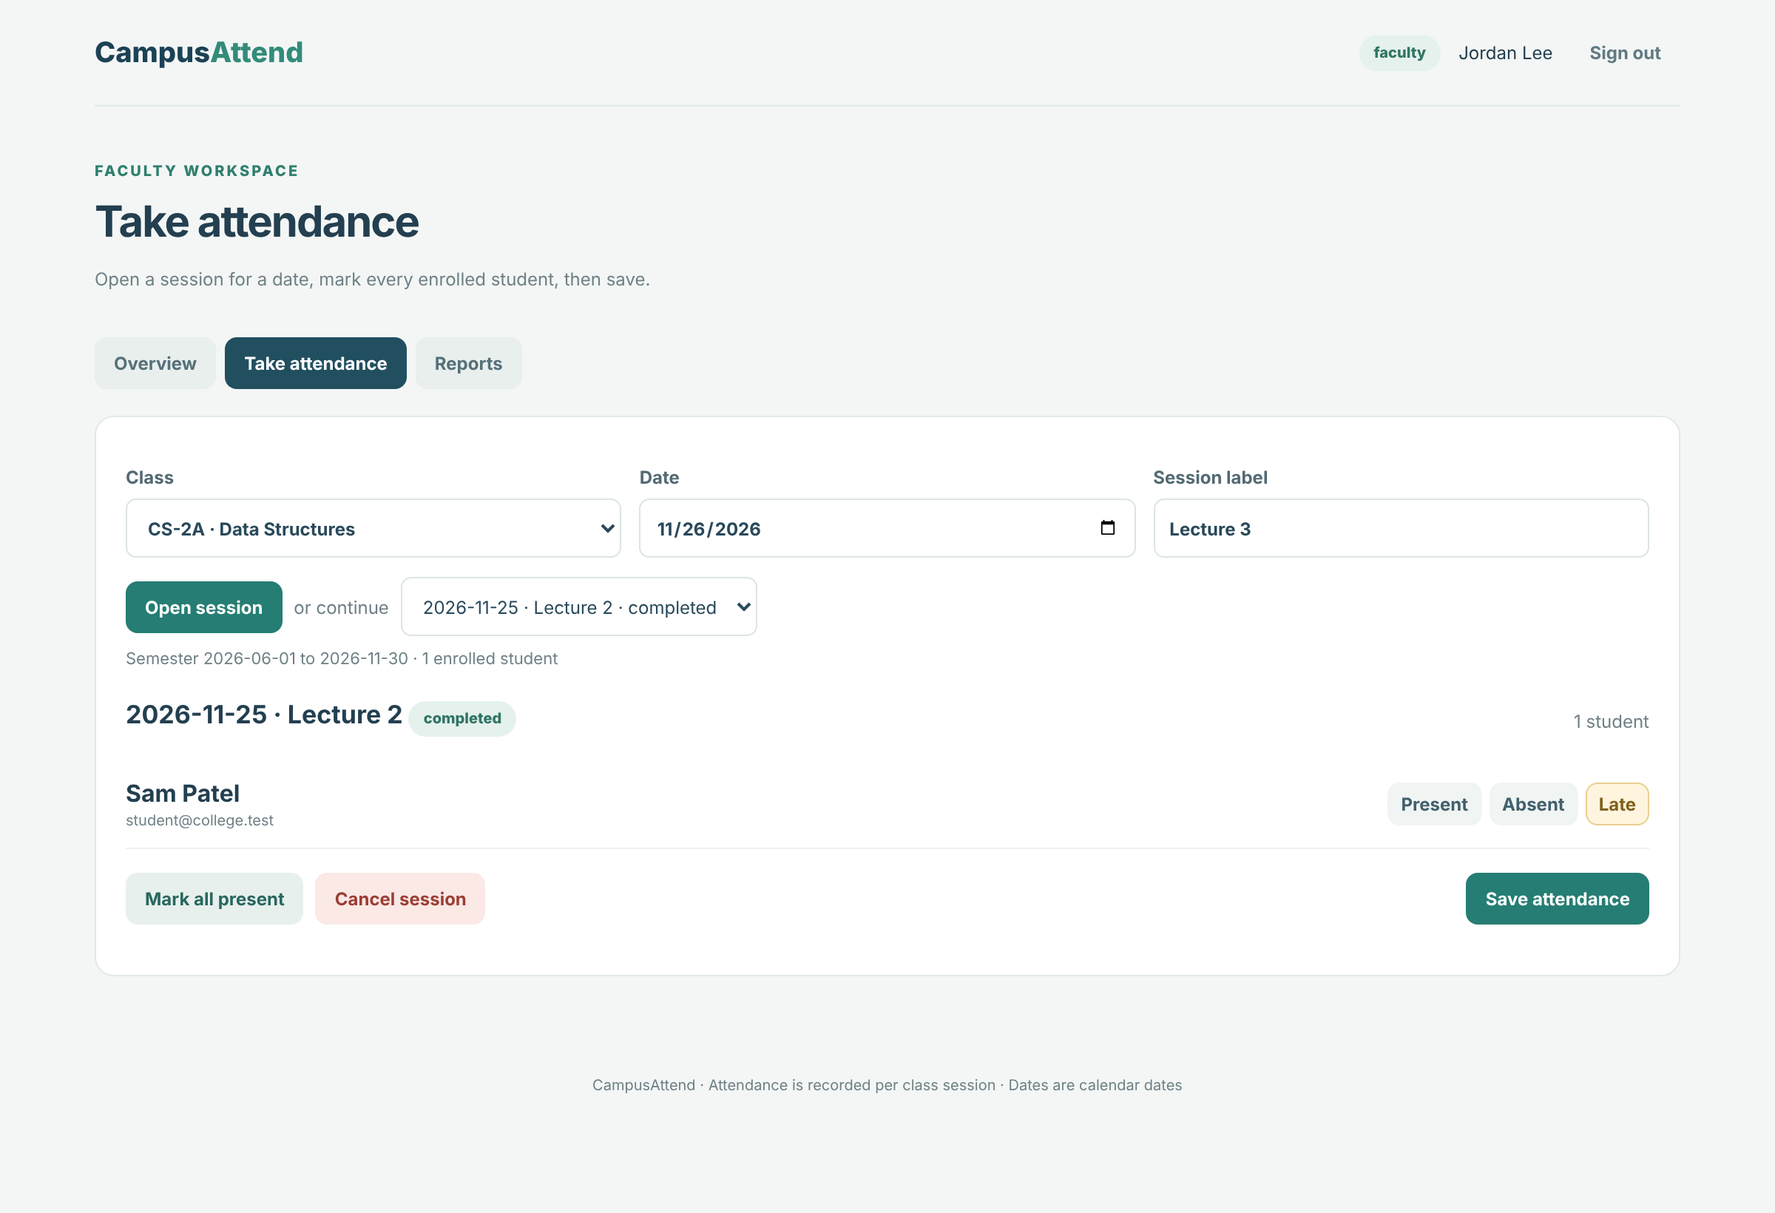
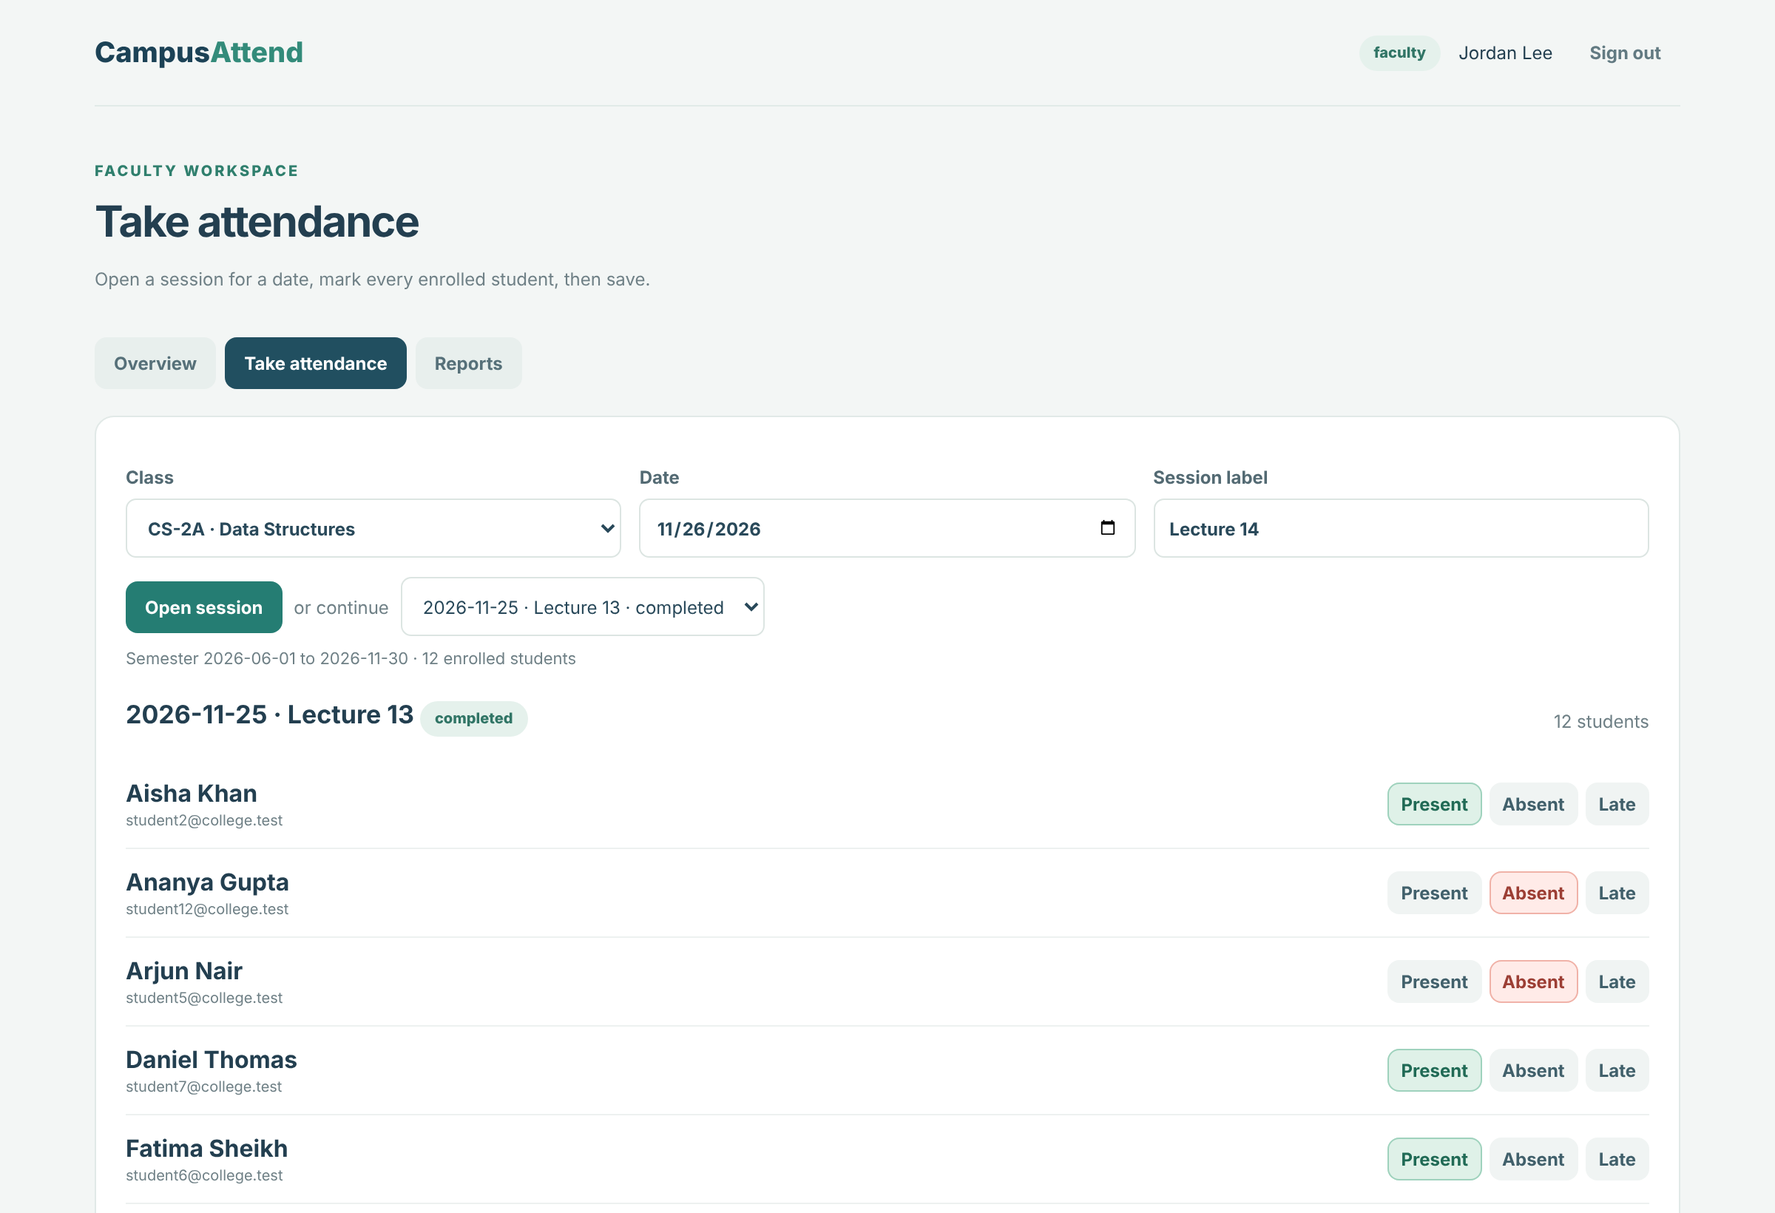
Seed a month of demo attendance
The dev profile now seeds one section (CS-2A) with 3 subjects on a weekly
timetable, 2 faculty and 12 students, and marks every class from the last
30 days up to yesterday (one class cancelled). Attendance comes from a
fixed random seed with per-student rates, so a few students sit below 75%.
Today's class stays open for faculty to take themselves.

- Reports and the student summary highlight attendance below 75%.
- Reports show the 50 most recent session records on screen; the CSV
  still has every row.
- verify-local.py no longer assumes the demo student has exactly 2 marks.
- README, architecture notes and screenshots updated.

Claude-Session: https://claude.ai/code/session_01DspzuMs8Z4n3fdN126CpzL

diff --git a/backend/src/main/resources/static/index.html b/backend/src/main/resources/static/index.html
@@ -44,6 +44,7 @@ td,th{text-align:left;padding:11px 8px;border-bottom:1px solid #edf1f0;vertical-
 .person{display:grid;gap:3px}.person small{color:#6f8086;font-size:10px}
 .marks{display:flex;gap:5px}.mark{background:#f0f4f3;color:#41606b;padding:7px 9px}
 .mark.on{background:#dff1e8;color:#206a55;box-shadow:inset 0 0 0 1px #9fd2bd}.mark.absent.on{background:#ffebe8;color:#9c3e34;box-shadow:inset 0 0 0 1px #f0b2a8}.mark.late.on{background:#fff4dd;color:#80611d;box-shadow:inset 0 0 0 1px #e8cf91}
+.low{color:#a24035}
 .bar{height:6px;background:#ecf1ef;border-radius:99px;margin-top:8px}.bar i{display:block;height:100%;background:#308d79;border-radius:99px}
 .subject{border:1px solid #e8efec;border-radius:9px;padding:13px}.subjects{display:grid;grid-template-columns:repeat(3,1fr);gap:10px}
 .actions{display:flex;gap:8px;align-items:center;flex-wrap:wrap}
@@ -300,6 +301,8 @@ async function manageView() {
 }
 
 // ---- reports (admin and faculty) -----------------------------------------------------------
+/** The on-screen record list stays short; the CSV has every row. */
+const RECENT_ROWS = 50;
 async function reportView() {
   const query = new URLSearchParams(Object.entries(reportFilters).filter(([, v]) => v)).toString();
   // Admins can report on every section, including deactivated ones; faculty only on their current classes.
@@ -311,9 +314,10 @@ async function reportView() {
   <label class="field">Section<select name="sectionId"><option value="">${user.role === 'ADMIN' ? 'All sections' : 'All my sections'}</option>${options(sections, c => c.id, c => c.label, reportFilters.sectionId)}</select></label>
   <div class="actions"><button class="primary">Apply filters</button><button type="button" class="quiet" id="clear">Clear</button></div></form><button id="csv" class="secondary">Download CSV</button></section>
   <section class="panel"><div class="panel-head"><h2>Attendance by student</h2><span class="pill">${plural(summary.length, 'row')}</span></div>${table(['Student', 'Section', 'Subject', 'Present', 'Late', 'Absent', 'Attendance'],
-    summary.map(r => [`${esc(r.studentName)}<br><span class="muted">${esc(r.email)}</span>`, esc(r.sectionCode), esc(r.subjectName), esc(r.present), esc(r.late), esc(r.absent), `<b>${esc(pct(r.percentage))}</b>`]))}</section>
+    summary.map(r => [`${esc(r.studentName)}<br><span class="muted">${esc(r.email)}</span>`, esc(r.sectionCode), esc(r.subjectName), esc(r.present), esc(r.late), esc(r.absent), `<b class="${Number(r.percentage) < 75 ? 'low' : ''}" ${Number(r.percentage) < 75 ? 'title="Below 75%"' : ''}>${esc(pct(r.percentage))}</b>`]))}</section>
   <section class="panel"><div class="panel-head"><h2>Session records</h2><span class="pill">${rows.length >= 5000 ? 'first 5,000 rows' : plural(rows.length, 'row')}</span></div>${table(['Date', 'Session', 'Section', 'Subject', 'Student', 'Status'],
-    rows.map(r => [esc(r.sessionDate), esc(r.sessionLabel), esc(r.sectionCode), esc(r.subjectName), esc(r.studentName), esc(r.status.toLowerCase())]))}</section>`);
+    rows.slice(0, RECENT_ROWS).map(r => [esc(r.sessionDate), esc(r.sessionLabel), esc(r.sectionCode), esc(r.subjectName), esc(r.studentName), esc(r.status.toLowerCase())]))}
+  ${rows.length > RECENT_ROWS ? `<p class="form-note">Showing the ${RECENT_ROWS} most recent records. Narrow the dates or section, or download the CSV for all ${rows.length >= 5000 ? '5,000+' : rows.length}.</p>` : ''}</section>`);
   const ff = $('filters');
   ff.onsubmit = e => {
     e.preventDefault(); const next = Object.fromEntries(new FormData(ff));
@@ -406,7 +410,7 @@ async function student() {
     return;
   }
   const [s, classes] = await Promise.all([api('/student/attendance/summary'), api('/student/classes')]);
-  shell('Your attendance', 'Only your own attendance is shown here. It updates as soon as faculty save a session.', `<section class="grid">${metric('Overall attendance', pct(s.percentage), `Across ${plural(s.total, 'completed session')}`)}${metric('Present', s.present, 'Marked present')}${metric('Late', s.late, 'Counts as attended')}${metric('Absent', s.absent, 'Marked absent')}</section>
+  shell('Your attendance', 'Only your own attendance is shown here. It updates as soon as faculty save a session.', `<section class="grid">${metric('Overall attendance', pct(s.percentage), s.percentage != null && s.percentage < 75 ? `Below 75% · ${plural(s.total, 'completed session')}` : `Across ${plural(s.total, 'completed session')}`)}${metric('Present', s.present, 'Marked present')}${metric('Late', s.late, 'Counts as attended')}${metric('Absent', s.absent, 'Marked absent')}</section>
   <p class="muted">${esc(s.formula)}</p>
   <section class="panel"><h2>By subject</h2><div class="subjects">${s.subjects.length ? s.subjects.map(x => `<article class="subject"><b>${esc(x.subjectName)}</b><p class="muted">${esc(x.subjectCode)} · ${esc(x.attended)}/${esc(x.total)} attended</p><div class="bar" role="img" aria-label="${esc(pct(x.percentage))} attended"><i style="width:${Math.min(100, Number(x.percentage) || 0)}%"></i></div><small>${esc(pct(x.percentage))}</small></article>`).join('') : '<p class="muted">No completed sessions yet.</p>'}</div></section>
   <section class="panel"><h2>Your classes</h2>${table(['Course', 'Section', 'Subject', 'Semester', 'Faculty'], classes.map(c => [esc(c.courseName), esc(c.sectionCode), `${esc(c.subjectName)} <span class="muted">${esc(c.subjectCode)}</span>`, esc(c.semester), c.faculty ? esc(c.faculty) : '<span class="muted">Not assigned yet</span>']), 'You are not enrolled in any active class yet.')}

diff --git a/backend/src/main/java/edu/college/attendance/DevelopmentBootstrap.java b/backend/src/main/java/edu/college/attendance/DevelopmentBootstrap.java
@@ -1,6 +1,7 @@
 package edu.college.attendance;
 
 import java.time.LocalDate;
+import java.util.List;
 import org.slf4j.Logger;
 import org.slf4j.LoggerFactory;
 import org.springframework.beans.factory.annotation.Value;
@@ -48,9 +49,30 @@ public class DevelopmentBootstrap {
         });
     }
 
+    // ---- demo data: one section, 3 subjects, 2 faculty, 12 students, the last month of classes ----------
+
+    /** Demo faculty: email, name. All use CAM_DEMO_FACULTY_PASSWORD. */
+    private static final String[][] DEMO_FACULTY = {{"faculty@college.test", "Jordan Lee"}, {"faculty2@college.test", "Anita Rao"}};
+    /**
+     * Demo students: email, name, typical attendance rate. A few sit below the common 75% threshold
+     * so reports show realistic variety. All use CAM_DEMO_STUDENT_PASSWORD.
+     */
+    private static final Object[][] DEMO_STUDENTS = {
+        {"student@college.test", "Sam Patel", 0.94}, {"student2@college.test", "Aisha Khan", 0.97}, {"student3@college.test", "Ravi Kumar", 0.82},
+        {"student4@college.test", "Meera Iyer", 0.99}, {"student5@college.test", "Arjun Nair", 0.68}, {"student6@college.test", "Fatima Sheikh", 0.90},
+        {"student7@college.test", "Daniel Thomas", 0.86}, {"student8@college.test", "Kavya Reddy", 0.62}, {"student9@college.test", "Rohan Das", 0.91},
+        {"student10@college.test", "Neha Joshi", 0.95}, {"student11@college.test", "Vikram Singh", 0.74}, {"student12@college.test", "Ananya Gupta", 0.88}};
+    /** Demo subjects: code, name, teacher (index into DEMO_FACULTY), weekdays it meets. */
+    private record DemoSubject(String code, String name, int teacher, java.util.Set<java.time.DayOfWeek> days) {}
+    private static final List<DemoSubject> DEMO_SUBJECTS = List.of(
+        new DemoSubject("CS201", "Data Structures", 0, java.util.EnumSet.of(java.time.DayOfWeek.MONDAY, java.time.DayOfWeek.WEDNESDAY, java.time.DayOfWeek.FRIDAY)),
+        new DemoSubject("CS202", "Database Systems", 0, java.util.EnumSet.of(java.time.DayOfWeek.TUESDAY, java.time.DayOfWeek.THURSDAY)),
+        new DemoSubject("CS203", "Operating Systems", 1, java.util.EnumSet.of(java.time.DayOfWeek.MONDAY, java.time.DayOfWeek.THURSDAY)));
+
     private void seedDemo(JdbcTemplate db, PasswordEncoder encoder, String facultyPassword, String studentPassword) {
-        addUser(db, encoder, "faculty@college.test", "Jordan Lee", "FACULTY", facultyPassword, false);
-        addUser(db, encoder, "student@college.test", "Sam Patel", "STUDENT", studentPassword, false);
+        String facultyHash = encoder.encode(facultyPassword), studentHash = encoder.encode(studentPassword);
+        for (String[] f : DEMO_FACULTY) addUserWithHash(db, f[0], f[1], "FACULTY", facultyHash);
+        for (Object[] s : DEMO_STUDENTS) addUserWithHash(db, (String) s[0], (String) s[1], "STUDENT", studentHash);
         Integer exists = db.queryForObject("SELECT COUNT(*) FROM departments", Integer.class);
         if (exists != null && exists > 0) return; // only seed classes into an empty database
 
@@ -68,21 +90,59 @@ public class DevelopmentBootstrap {
         db.update("INSERT INTO semesters(academic_year_id,label,start_date,end_date) SELECT id,?,?,? FROM academic_years WHERE label=?", semesterLabel, semesterStart, semesterEnd, yearLabel);
         db.update("INSERT INTO courses(department_id,code,name) SELECT id,'BSC-CS','B.Sc. Computer Science' FROM departments WHERE code='CS'");
         db.update("INSERT INTO sections(course_id,semester_id,code) SELECT c.id,se.id,'CS-2A' FROM courses c CROSS JOIN semesters se WHERE c.code='BSC-CS' AND se.label=?", semesterLabel);
-        db.update("INSERT INTO subjects(course_id,code,name) SELECT id,'CS201','Data Structures' FROM courses WHERE code='BSC-CS'");
-        db.update("INSERT INTO faculty_assignments(faculty_user_id,section_id,subject_id) SELECT f.id,s.id,sub.id FROM users f CROSS JOIN sections s CROSS JOIN subjects sub WHERE f.email='faculty@college.test' AND s.code='CS-2A' AND sub.code='CS201'");
-        db.update("INSERT INTO student_enrollments(student_user_id,section_id) SELECT u.id,s.id FROM users u CROSS JOIN sections s WHERE u.email='student@college.test' AND s.code='CS-2A'");
-        sampleSession(db, latest(today.minusDays(2), semesterStart), "Lecture 1", "PRESENT");
-        sampleSession(db, latest(today.minusDays(1), semesterStart), "Lecture 2", "LATE");
-        log.info("Seeded demo class CS-2A / CS201 for semester {} to {}", semesterStart, semesterEnd);
+        long section = db.queryForObject("SELECT id FROM sections WHERE code='CS-2A'", Long.class);
+        long[] faculty = new long[DEMO_FACULTY.length];
+        for (int i = 0; i < DEMO_FACULTY.length; i++) faculty[i] = userId(db, DEMO_FACULTY[i][0]);
+        long[] students = new long[DEMO_STUDENTS.length];
+        for (int i = 0; i < DEMO_STUDENTS.length; i++) {
+            students[i] = userId(db, (String) DEMO_STUDENTS[i][0]);
+            db.update("INSERT INTO student_enrollments(student_user_id,section_id) VALUES(?,?)", students[i], section);
+        }
+
+        // About a month of past classes (from 30 days ago, or the semester start if later, up to yesterday),
+        // so faculty can still open today's session themselves. Fixed random seed: the same demo every time.
+        java.util.Random random = new java.util.Random(2026);
+        LocalDate from = today.minusDays(30).isBefore(semesterStart) ? semesterStart : today.minusDays(30);
+        int sessions = 0, records = 0;
+        for (DemoSubject subject : DEMO_SUBJECTS) {
+            db.update("INSERT INTO subjects(course_id,code,name) SELECT id,?,? FROM courses WHERE code='BSC-CS'", subject.code(), subject.name());
+            long subjectId = db.queryForObject("SELECT id FROM subjects WHERE code=?", Long.class, subject.code());
+            long teacher = faculty[subject.teacher()];
+            db.update("INSERT INTO faculty_assignments(faculty_user_id,section_id,subject_id) VALUES(?,?,?)", teacher, section, subjectId);
+            int lecture = 0;
+            for (LocalDate day = from; day.isBefore(today); day = day.plusDays(1)) {
+                if (!subject.days().contains(day.getDayOfWeek())) continue;
+                lecture++;
+                // One class in the month was cancelled (e.g. a holiday): it is kept but excluded from every total.
+                boolean cancelled = subject.code().equals("CS203") && lecture == 3;
+                db.update("INSERT INTO class_sessions(section_id,subject_id,session_date,session_label,state,version,created_by) VALUES(?,?,?,?,?,1,?)",
+                    section, subjectId, day, "Lecture " + lecture, cancelled ? "CANCELLED" : "COMPLETED", teacher);
+                if (cancelled) continue;
+                long sessionId = db.queryForObject("SELECT LAST_INSERT_ID()", Long.class);
+                List<Object[]> marks = new java.util.ArrayList<>();
+                for (int i = 0; i < students.length; i++) {
+                    double rate = (Double) DEMO_STUDENTS[i][2], roll = random.nextDouble();
+                    String status = roll < rate * 0.92 ? "PRESENT" : roll < rate ? "LATE" : "ABSENT";
+                    marks.add(new Object[]{sessionId, students[i], status, teacher});
+                }
+                db.batchUpdate("INSERT INTO attendance_records(class_session_id,student_user_id,status,marked_by) VALUES(?,?,?,?)", marks);
+                sessions++;
+                records += marks.size();
+            }
+        }
+        log.info("Seeded demo section CS-2A ({} to {}): {} subjects, {} students, {} completed sessions, {} attendance marks",
+            semesterStart, semesterEnd, DEMO_SUBJECTS.size(), students.length, sessions, records);
     }
 
-    private static LocalDate latest(LocalDate a, LocalDate b) { return a.isAfter(b) ? a : b; }
+    private static long userId(JdbcTemplate db, String email) {
+        return db.queryForObject("SELECT id FROM users WHERE email=?", Long.class, email);
+    }
 
-    private void sampleSession(JdbcTemplate db, LocalDate date, String label, String status) {
-        db.update("INSERT INTO class_sessions(section_id,subject_id,session_date,session_label,state,version,created_by) SELECT s.id,sub.id,?,?,'COMPLETED',1,f.id" +
-            " FROM sections s JOIN subjects sub ON sub.course_id=s.course_id JOIN users f ON f.email='faculty@college.test' WHERE s.code='CS-2A' AND sub.code='CS201'", date, label);
-        db.update("INSERT INTO attendance_records(class_session_id,student_user_id,status,marked_by) SELECT cs.id,stu.id,?,f.id FROM class_sessions cs" +
-            " JOIN users stu ON stu.email='student@college.test' JOIN users f ON f.email='faculty@college.test' WHERE cs.session_label=? AND cs.session_date=?", status, label, date);
+    /** Like addUser, but with a precomputed hash so a dozen demo accounts don't each pay for BCrypt. */
+    private void addUserWithHash(JdbcTemplate db, String email, String name, String role, String passwordHash) {
+        Integer exists = db.queryForObject("SELECT COUNT(*) FROM users WHERE email=?", Integer.class, email);
+        if (exists == null || exists == 0)
+            db.update("INSERT INTO users(email,password_hash,display_name,role,must_change_password) VALUES(?,?,?,?,FALSE)", email, passwordHash, name, role);
     }
 
     /** Inserts the account if the email is new. Returns true when a row was created. */

diff --git a/scripts/verify-local.py b/scripts/verify-local.py
@@ -42,13 +42,14 @@ a.call('/admin/assignments','POST',{'userId':fid,'sectionId':c['sectionId'],'sub
 assignment=next(x for x in f.call('/faculty/classes') if x['sectionId']==c['sectionId'])
 session=f.call('/faculty/classes/'+str(assignment['assignmentId'])+'/sessions','POST',{'sessionDate':day,'sessionLabel':'Verification '+stamp})
 sid=session['id']; path='/faculty/sessions/'+str(sid)+'/attendance'
+demo_total=s.call('/student/attendance/summary')['total']  # the demo student is not in the verification class
 f.call(path,'PUT',{'expectedVersion':0,'records':[{'studentId':u['id'],'status':'PRESENT'}]})
 f.call(path,'PUT',{'expectedVersion':0,'records':[{'studentId':u['id'],'status':'ABSENT'}]},status=409)
 f.call(path,'PUT',{'expectedVersion':1,'records':[{'studentId':u['id'],'status':'LATE'}]})
 rows=a.call('/reports/attendance?from='+day+'&to='+day+'&sectionId='+str(c['sectionId']))
 assert len(rows)==1 and rows[0]['status']=='LATE'
 assert 'LATE' in a.call('/reports/attendance.csv?sectionId='+str(c['sectionId']))
-assert s.call('/student/attendance/summary')['total']==2
+assert s.call('/student/attendance/summary')['total']==demo_total
 assert all(x.get('sessionLabel')!='Verification '+stamp for x in s.call('/student/attendance/history')['content'])
 v=Client();v.call('/auth/login','POST',{'email':u['email'],'password':'Verification-Temp-123!'})
 v.call('/student/attendance/summary',status=403)  # temporary password must be replaced first

diff --git a/README.md b/README.md
@@ -86,13 +86,22 @@ Both scripts check Java and MySQL, build and test the app, then start it. Wait f
 
 ## Demo accounts
 
-With the default `dev` profile, a fresh database gets these accounts and one sample class, `CS-2A` / `CS201 Data Structures`, set in the current semester:
+With the default `dev` profile, a fresh database gets about **a month of sample attendance**. The demo has one section, `CS-2A` (B.Sc. Computer Science), in the current semester:
+
+- **3 subjects:** CS201 Data Structures (Mon/Wed/Fri) and CS202 Database Systems (Tue/Thu), taught by Jordan Lee; and CS203 Operating Systems (Mon/Thu), taught by Anita Rao.
+- **12 students**, with marks for every class in the last 30 days up to yesterday. Most students attend well and a few fall below 75%, so reports show realistic variety. Attendance under 75% is highlighted in red.
+- **One cancelled class**, which is excluded from every total.
+- **Today's class is left open**, so faculty can take today's attendance themselves.
+
+If the current semester started less than 30 days ago, the sample begins at the semester start.
 
 | Role | Email | Password |
 | --- | --- | --- |
 | Admin | admin@college.test | CampusAdmin-Change-123! |
-| Faculty | faculty@college.test | FacultyDemo-2026! |
-| Student | student@college.test | StudentDemo-2026! |
+| Faculty | faculty@college.test (Jordan Lee), faculty2@college.test (Anita Rao) | FacultyDemo-2026! |
+| Student | student@college.test (Sam Patel), student2@college.test … student12@college.test | StudentDemo-2026! |
+
+The sample is only added to an **empty** database. To reload it on an existing Docker install, run `docker compose down -v` (this deletes all data) and then `docker compose up -d`.
 
 **Try it:** sign in as faculty in one browser window and as the student in a private window. Save attendance as faculty, then refresh the student page: the new percentage appears straight away.
 

diff --git a/docs/architecture.md b/docs/architecture.md
@@ -28,9 +28,9 @@ Attendance history is never filtered by it. Saved records stay in student summar
 - Passwords are BCrypt hashes. Sessions use HttpOnly cookies, and every write needs a CSRF token.
 - Controllers check the role with `@PreAuthorize`. Faculty routes also check the assignment, and student routes take the student's identity only from the session.
 - A filter re-reads the account on every request. A deactivated user is signed out immediately, and a user with a temporary password can only change it.
-- After repeated wrong passwords, login for that email is throttled for 15 minutes (`LoginThrottle`).
+- After repeated wrong passwords for an email from the same address, further attempts from that address are refused for 15 minutes (`LoginThrottle`). An admin password reset lifts the block.
 - Every error is returned as `{"error": "..."}`. Unexpected failures are logged and never expose stack traces.
 
 ## Startup data
 
-`DevelopmentBootstrap` creates the first administrator from `CAM_BOOTSTRAP_ADMIN_*` in any profile, unless that account already exists. The `dev` profile also seeds a demo faculty member, a demo student and a class in the semester containing today. It uses the same June–May calendar the admin form suggests, so a fresh install always works.
+`DevelopmentBootstrap` creates the first administrator from `CAM_BOOTSTRAP_ADMIN_*` in any profile, unless that account already exists. The `dev` profile also seeds a demo section in the semester containing today: 2 faculty, 12 students, 3 subjects and about a month of attendance generated with a fixed random seed, so it is the same every time. It uses the same June–May calendar the admin form suggests, so a fresh install always works.
